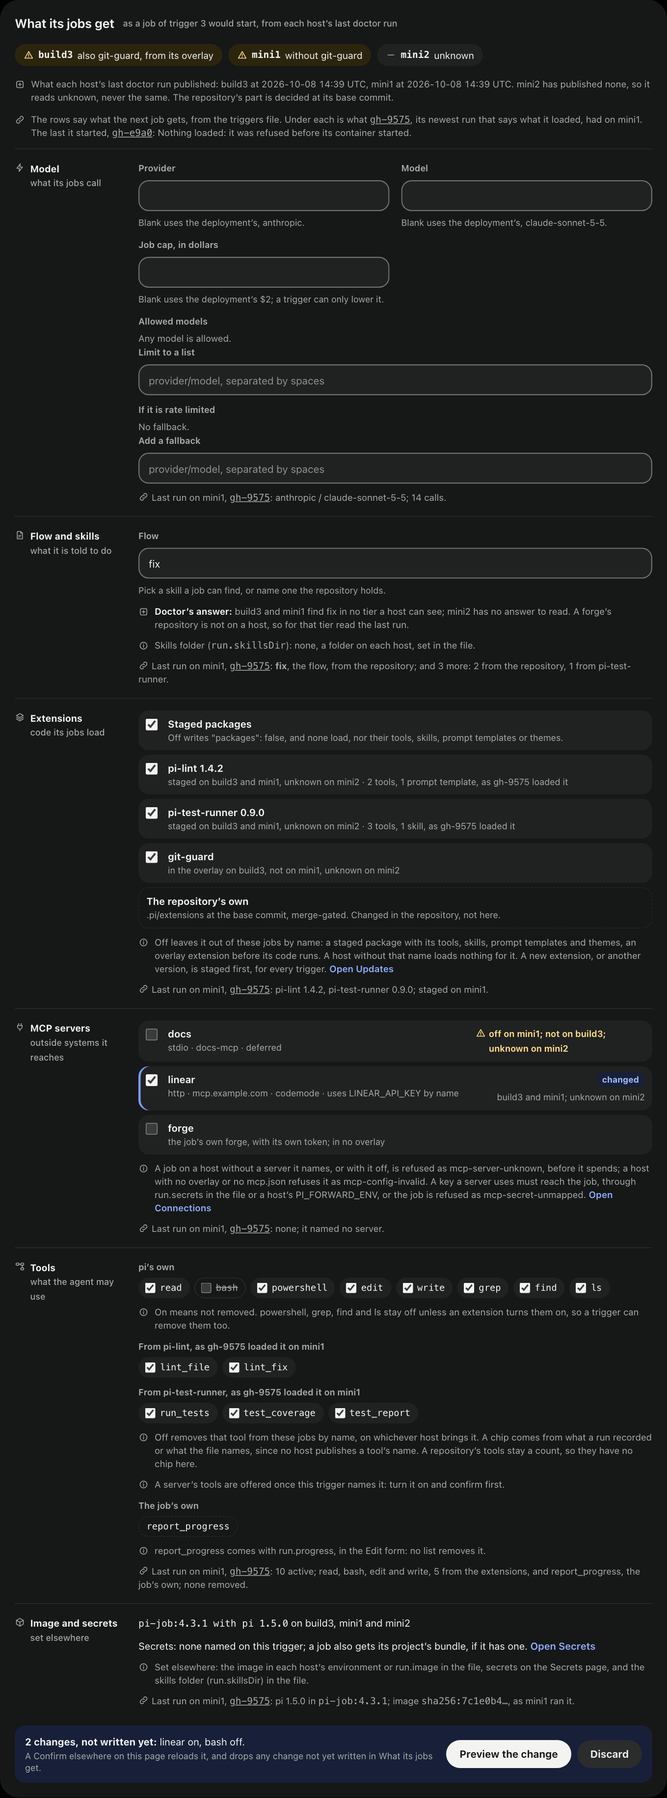
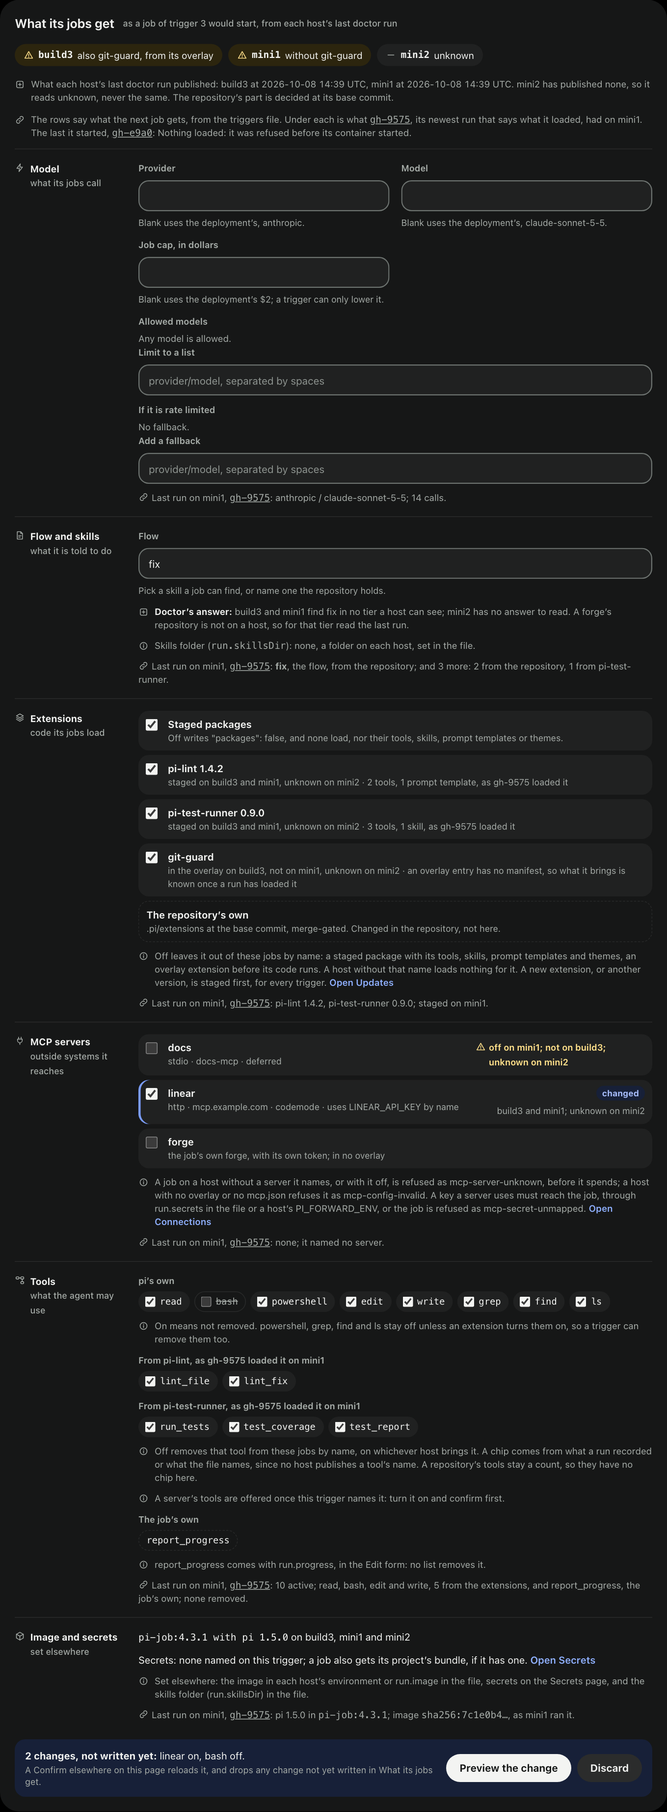
fix(console): the review's findings on the fresh sandbox rows and extension rows (#847)
- An extension row quotes the NEWEST RUN THAT LOADED IT, of its kind
  and version. It used to quote the newest run alone, so a row switched
  off said "known once a run has loaded it" one run later.
  - An overlay entry and a package of one name are never each other's
    counts (sources carry a `kind`).
  - Every entry of a stem is looked for.
  - One that brought nothing countable (a hook alone) says "no tool,
    skill or prompt template, as X loaded it".
  - Nothing is claimed while the run history could not be read.
- The Flow row uses forge words. A sandbox's trigger is a forge's,
  whose repository is on no host, so doctor never answered its
  repository tier. A tier found is named with the trigger page's
  caveat that the repository comes first, and one found nowhere is
  unknown, never absent. The not-found golden showed a state a sandbox
  cannot be in, and is gone.
- The row says "a job of trigger N on this host", since "here" also
  meant the shell.
- An old publication reads unknown for Flow and MCP, as the trigger
  page reads it.
- A package-tier answer under "packages": false is no answer, on both
  pages.
- The MCP row names no refusal reason: a host with no mcp.json
  publishes the same empty list, and its jobs are refused as
  mcp-config-invalid.
- A disarmed one-shot's flow and servers come from its entry in the
  file, as the worker prepares it.
- Tests:
  - sandbox-data hands on flow and mcp;
[…]

diff --git a/design/system/components/LoadedStates/preview.html b/design/system/components/LoadedStates/preview.html
@@ -301,7 +301,7 @@ details.c2-more > div { padding: 0 14px 14px; display: grid; gap: var(--space-3)
   <dl class="facts facts--1"><div class="fact"><dt>Image</dt><dd>pi-job:4.3.1</dd></div><div class="fact"><dt>/workspace</dt><dd>Its retained clone</dd></div><div class="fact"><dt>/job</dt><dd>Read only, with the retained job inputs</dd></div><div class="fact"><dt><span class="ld-new">pi and what it loads</span></dt><dd><span class="ld-new">pi 1.5.0 in the image. No overlay is mounted, so pi started here loads only the workspace’s own .pi/. <a class="link code" href="#">gh-9575</a> itself also loaded pi-lint 1.4.2 and pi-test-runner 0.9.0.</span></dd></div><div class="fact"><dt>Processes</dt><dd>None until you start them</dd></div><div class="fact"><dt>Credentials</dt><dd>None, on purpose</dd></div><div class="fact"><dt>Network</dt><dd>The host's current job egress policy</dd></div></dl><p class="ld-foot"><svg class="ic ic--sm" aria-hidden="true"><use href="#i-info"/></svg><span>Nothing loads until you start pi in the shell.</span></p>
 </section><section class="card" id="p-loaded-sandbox-fresh" data-panel>
   <div class="card__head"><h2>What opens</h2><span class="card__sub">Sandboxes, a fresh one</span></div>
-  <dl class="facts facts--1"><div class="fact"><dt><span class="ld-new">On mini1</span></dt><dd><span class="ld-new">pi 1.5.0 in the image. No overlay is mounted, so pi started here loads only the workspace’s own .pi/. A job of trigger 3 on this host would load pi-lint 1.4.2 and pi-test-runner 0.9.0, from its last doctor run at 2026-10-08 14:39 UTC.</span></dd></div><div class="fact"><dt><span class="ld-new">Flow</span></dt><dd><span class="ld-new">A job here would find fix from the repository.</span></dd></div><div class="fact"><dt><span class="ld-new">MCP servers</span></dt><dd><span class="ld-new">linear on this host; docs not on this host, so a job here is refused as mcp-server-unknown.</span></dd></div><div class="fact"><dt><span class="ld-new">On mini2</span></dt><dd><span class="ld-new">pi 1.5.0 in the image. No overlay is mounted, so pi started here loads only the workspace’s own .pi/. What a job of trigger 3 would load on this host is unknown: it has published no doctor run.</span></dd></div></dl><p class="ld-foot"><svg class="ic ic--sm" aria-hidden="true"><use href="#i-info"/></svg><span>A fresh sandbox has no run to quote, so it says what a job would load there, from the host’s last doctor run, or unknown. The repository’s part is decided at its base commit.</span></p>
+  <dl class="facts facts--1"><div class="fact"><dt><span class="ld-new">On mini1</span></dt><dd><span class="ld-new">pi 1.5.0 in the image. No overlay is mounted, so pi started here loads only the workspace’s own .pi/. A job of trigger 3 on this host would load pi-lint 1.4.2 and pi-test-runner 0.9.0, from its last doctor run at 2026-10-08 14:39 UTC.</span></dd></div><div class="fact"><dt><span class="ld-new">Flow</span></dt><dd><span class="ld-new">A job of trigger 3 on this host would find fix from the overlay, unless the repository holds it at its base commit, which comes first.</span></dd></div><div class="fact"><dt><span class="ld-new">MCP servers</span></dt><dd><span class="ld-new">linear on this host; docs not on this host, so a job there is refused before it spends.</span></dd></div><div class="fact"><dt><span class="ld-new">On mini2</span></dt><dd><span class="ld-new">pi 1.5.0 in the image. No overlay is mounted, so pi started here loads only the workspace’s own .pi/. What a job of trigger 3 would load on this host is unknown: it has published no doctor run.</span></dd></div></dl><p class="ld-foot"><svg class="ic ic--sm" aria-hidden="true"><use href="#i-info"/></svg><span>A fresh sandbox has no run to quote, so it says what a job would load there, from the host’s last doctor run, or unknown. The repository’s part is decided at its base commit.</span></p>
 </section></div><div class="ld-pair"><section class="card" id="p-loaded-trigger" data-panel>
   <div class="card__head"><h2>MCP servers</h2><span class="card__sub">trigger 7, under a row of What its jobs get</span></div>
   <dl class="facts facts--1"><div class="fact"><dt><span class="code">run.mcp</span></dt><dd>linear, as the file says now</dd></div><div class="fact"><dt><span class="ld-new">Last run</span></dt><dd><span class="ld-new">Last run on mini1, <a class="link code" href="#">gh-2f6a</a>: linear connected, with 12 tools.</span></dd></div></dl><p class="ld-foot"><svg class="ic ic--sm" aria-hidden="true"><use href="#i-info"/></svg><span>Each row of What its jobs get has this line: what the file says the next job gets, and under it what its last run had.</span></p>

diff --git a/design/system/components/TriggerEnvironment/preview.html b/design/system/components/TriggerEnvironment/preview.html
@@ -217,7 +217,7 @@ details.c2-more > div { padding: 0 14px 14px; display: grid; gap: var(--space-3)
   <label class="te-item"><input type="checkbox" checked aria-label="pi-lint 1.4.2"><span><b>pi-lint 1.4.2</b><small>staged on build3 and mini1, unknown on mini2 · 2 tools, 1 prompt template, as gh-9575 loaded it</small></span><span class="te-tag"></span></label>
   <label class="te-item"><input type="checkbox" checked aria-label="pi-test-runner 0.9.0"><span><b>pi-test-runner 0.9.0</b><small>staged on build3 and mini1, unknown on mini2 · 3 tools, 1 skill, as gh-9575 loaded it</small></span><span class="te-tag"></span></label>
   <label class="te-item"><input type="checkbox" checked aria-label="git-guard"><span><b>git-guard</b><small>in the overlay on build3, not on mini1, unknown on mini2 · an overlay entry has no manifest, so what it brings is known once a run has loaded it</small></span><span class="te-tag"></span></label>
-  <label class="te-item"><input type="checkbox" aria-label="pi-format 0.3.0"><span><b>pi-format 0.3.0</b><small>staged on build3 · what it brings is known once a run has loaded it</small></span><span class="te-tag"></span></label>
+  <label class="te-item"><input type="checkbox" aria-label="pi-format 0.3.0"><span><b>pi-format 0.3.0</b><small>staged on build3, not on mini1, unknown on mini2 · what it brings is known once a run has loaded it</small></span><span class="te-tag"></span></label>
   <label class="te-item te-item--locked"><svg class="ic ic--sm" aria-hidden="true"><use href="#i-key"/></svg><span><b>The repository’s own</b><small>.pi/extensions at the base commit, merge-gated. Changed in the repository, not here.</small></span><span class="te-tag"></span></label>
 </div>
 <p class="te-note"><svg class="ic ic--sm" aria-hidden="true"><use href="#i-info"/></svg><span>Off leaves it out of these jobs by name: a staged package with its tools, skills, prompt templates and themes, an overlay extension before its code runs. A host without that name loads nothing for it. A new extension, or another version, is staged first, for every trigger. <a class="link" href="#">Open Updates</a></span></p><p class="te-last"><svg class="ic ic--sm" aria-hidden="true"><use href="#i-chain"/></svg>Last run on mini1, gh-9575: pi-lint 1.4.2, pi-test-runner 0.9.0; staged on mini1.</p></div></div><div class="te-sec"><p class="te-sec__k"><svg class="ic ic--sm" aria-hidden="true"><use href="#i-plug"/></svg><span>MCP servers<small>outside systems it reaches</small></span></p><div class="te-sec__v"><div class="te-items">

diff --git a/design/tools/gen_loaded.py b/design/tools/gen_loaded.py
@@ -270,8 +270,8 @@ def states_page():
     fresh = card("What opens", facts([
         (f'<span class="ld-new">On mini1</span>', f'<span class="ld-new">{NO_OVERLAY} A job of trigger 3 on this host would load pi-lint 1.4.2 and pi-test-runner 0.9.0, from its last doctor run at 2026-10-08 14:39 UTC.</span>'),
         # Issue #847: where the host published a doctor run, the flow and the MCP servers the trigger names, in the trigger page's words.
-        (f'<span class="ld-new">Flow</span>', f'<span class="ld-new">A job here would find fix from the repository.</span>'),
-        (f'<span class="ld-new">MCP servers</span>', f'<span class="ld-new">linear on this host; docs not on this host, so a job here is refused as mcp-server-unknown.</span>'),
+        (f'<span class="ld-new">Flow</span>', f'<span class="ld-new">A job of trigger 3 on this host would find fix from the overlay, unless the repository holds it at its base commit, which comes first.</span>'),
+        (f'<span class="ld-new">MCP servers</span>', f'<span class="ld-new">linear on this host; docs not on this host, so a job there is refused before it spends.</span>'),
         (f'<span class="ld-new">On mini2</span>', f'<span class="ld-new">{NO_OVERLAY} What a job of trigger 3 would load on this host is unknown: it has published no doctor run.</span>'),
     ], 1) + f'<p class="ld-foot">{ic("info", "ic ic--sm")}<span>A fresh sandbox has no run to quote, so it says what a job would load there, from the host’s last doctor run, or unknown. The repository’s part is decided at its base commit.</span></p>',
         sub="Sandboxes, a fresh one", id_="p-loaded-sandbox-fresh")

diff --git a/design/tools/gen_trigger_env.py b/design/tools/gen_trigger_env.py
@@ -174,7 +174,7 @@ def gets_card():
   {item(True, "pi-lint 1.4.2", "staged on build3 and mini1, unknown on mini2 · 2 tools, 1 prompt template, as gh-9575 loaded it")}
   {item(True, "pi-test-runner 0.9.0", "staged on build3 and mini1, unknown on mini2 · 3 tools, 1 skill, as gh-9575 loaded it")}
   {item(True, "git-guard", "in the overlay on build3, not on mini1, unknown on mini2 · an overlay entry has no manifest, so what it brings is known once a run has loaded it")}
-  {item(False, "pi-format 0.3.0", "staged on build3 · what it brings is known once a run has loaded it")}
+  {item(False, "pi-format 0.3.0", "staged on build3, not on mini1, unknown on mini2 · what it brings is known once a run has loaded it")}
   {item(True, "The repository’s own", ".pi/extensions at the base commit, merge-gated. Changed in the repository, not here.", locked=True)}
 </div>
 <p class="te-note">{ic("info", "ic ic--sm")}<span>Off leaves it out of these jobs by name: a staged package with its tools, skills, prompt templates and themes, an overlay extension before its code runs. A host without that name loads nothing for it. A new extension, or another version, is staged first, for every trigger. <a class="link" href="#">Open Updates</a></span></p>""",

diff --git a/specs/requirements.md b/specs/requirements.md
@@ -1663,13 +1663,17 @@ writes retain their existing interactive confirmation. This adds no unattended p
   a last doctor run that could not read a part this job loads from, and it never reads as the same or as none. Since
   issue #847, where the host published a doctor run, two rows follow it (`sandboxFreshRows`): **Flow**, where a job of
   the trigger would find its flow on that host, in the trigger page's own words (`flowAnswer`, `lacksFlow`,
-  `FLOW_TIER_WORDS`): found with its tier, not found ("it is not at the repository's HEAD, nor in any other tier this
-  trigger loads from"), or unknown where doctor has no answer for that flow (it ran before an edit, or the row was cut
-  to fit) or found it in no tier a host can see; and, when the trigger names any, **MCP servers**: each server `run.mcp`
-  names against the host's overlay servers, on, switched off or not there (both refused as `mcp-server-unknown`), or
-  unknown where the list could not be read or was cut, and `forge` as the job's own. Tools stay out, since no host
-  publishes a tool's name. An unread MCP part no longer makes the first row unknown for a trigger that names no server.
-  A host that published nothing keeps the first row alone. pi's
+  `FLOW_TIER_WORDS`): a sandbox's trigger is a forge's, whose repository is on no host, so a tier doctor found is named
+  with the trigger page's caveat that the repository comes first at its base commit, and one found in no tier a host
+  can see is unknown, never absent, as is a flow doctor has no answer for (it ran before an edit, or the row was cut to
+  fit); and, when the trigger names any, **MCP servers**: each server `run.mcp`
+  names against the host's overlay servers, on, switched off or not there (a job is then refused before it spends, the
+  reason not named, since a host with no `mcp.json` publishes the same empty list), or unknown where the list could not
+  be read or was cut, and `forge` as the job's own. Tools stay out, since no host publishes a tool's name. An unread MCP
+  part no longer makes the first row unknown for a trigger that names no server. A package-tier answer under
+  `"packages": false` is no answer, as is one for a package the trigger leaves out, and an old publication reads unknown
+  for both rows, as the trigger page reads it. A host that published nothing keeps the first row alone. A disarmed
+  one-shot's flow and servers are read from its entry in the file, as the worker prepares it. pi's
   version is the record's, or the host's beat's (`host:h:<name>`) where the sandbox's image is the one that host booted on, so
   a host that published nothing still has one. A kept older image and a trigger's own `run.image` hold their own pi, so otherwise
   the line says it cannot name the version (`hostPiFor`). A read of the record that failed says it could not be read. **Who sees what**: an operator and a viewer read the same words on the run page, the Runs list and a project's
@@ -1678,7 +1682,7 @@ writes retain their existing interactive confirmation. This adds no unattended p
   operators only (`REQ-SANDBOX-FROM-THE-CONSOLE`, UNCHANGED, checked: it adds no control, command or shell list).
   `/api/run` carries the field for both roles (`INT-CONSOLE-STATE-API`). No model or agent reads the list, and each reads
   `outcomeNote`'s closed sentence as `note`, and an agent's page draws no Loaded card or project card over a copy with no field.
-  Goldens: `sandbox-loaded-run.operator`, `sandbox-loaded-fresh.operator`, `sandbox-loaded-flow-found.operator`, `sandbox-loaded-flow-absent.operator`, `sandbox-loaded-flow-unknown.operator`, `sandbox-loaded-mcp-lacks.operator`, `sandbox-loaded-unknown.operator`, `sandbox-loaded-long-names.operator`. Tests:
+  Goldens: `sandbox-loaded-run.operator`, `sandbox-loaded-fresh.operator`, `sandbox-loaded-flow-found.operator`, `sandbox-loaded-flow-unknown.operator`, `sandbox-loaded-mcp-lacks.operator`, `sandbox-loaded-unknown.operator`, `sandbox-loaded-long-names.operator`. Tests:
   `admin/test/loaded-words.test.mjs`, `admin/test/console-sandboxes.test.mjs`, `admin/test/sandbox-data.test.mjs`.
 
 - **AMENDED 2026-11-02 (#792, #793)**: Run Workspace and the separate gateway workbench/observer surface follow
@@ -2663,9 +2667,11 @@ writes retain their existing interactive confirmation. This adds no unattended p
       hidden. The digest covers the entry's prompt and secret references, so it reaches an operator's form alone.
     - **What is switched and what is shown (AMENDED 2026-11-04).** Staged packages have one switch, all or nothing, and each staged package and
       overlay extension a host publishes has its own, by name (`run.excludeExtensions`), with where it is, and what the newest run that loaded it
-      brought (its tools, skills and prompt templates, "as gh-9575 loaded it"), switched off too since issue #847, since that row is where a person
-      decides to turn it back on; one no recorded run has loaded says "what it brings is known once a run has loaded it", and an overlay entry says it
-      has no manifest, so only a run can say. Hosts publish no counts per package (`DES-OPERATOR-CONSOLE`). A name the file holds that no host shows keeps
+      brought (its tools, skills and prompt templates, "as gh-9575 loaded it", or "no tool, skill or prompt template" for one that brought nothing
+      countable), switched off too since issue #847, since that row is where a person decides to turn it back on: the newest run that loaded that
+      package at that version, or that overlay entry, never a package's counts for an overlay entry of its name; one no recorded run has loaded
+      says "what it brings is known once a run has loaded it", an overlay entry that it has no manifest, and neither is said while the run
+      history could not be read. Hosts publish no counts per package (`DES-OPERATOR-CONSOLE`). A name the file holds that no host shows keeps
       its row, so it can be turned back on, and under `"packages": false` a package's switch is moot and the row says so. Two names in the file that mean one entry (`git-guard` and `git-guard.ts`, which the loader takes) are a row each: each says where the entry is, as the worker's `extensionsNotHere` reads it, and that the file also names the other. A tool an extension adds is a chip,
       named from a run's record by its id and host (`run.excludeExtensionTools`), since no host publishes a tool's name, and a name the file holds that no
       chip offers stays listed. A repository's extensions and tools stay counts, with no control. pi's own tools and a named server's are chips, on meaning not
@@ -8663,7 +8669,7 @@ instead of drifting.
 
 | Date | Change |
 |---|---|
-| 2026-11-12 (#847) | **`REQ-OPERATOR-CONSOLE-SCREENS` AMENDED**: a fresh sandbox's What opens gains, where the host published a doctor run, a Flow row (where a job would find the trigger's flow, in the trigger page's words, or unknown) and, for a trigger that names any, an MCP servers row (on, switched off, not there, unknown; `forge` the job's own); an unread MCP part no longer makes the first row unknown for a trigger that names none; four goldens added (`sandbox-loaded-flow-found`, `-flow-absent`, `-flow-unknown`, `-mcp-lacks`). (g1)'s extension row quotes what the newest run that loaded it brought also when it is switched off, and one no run has loaded says that is not known yet; an overlay entry says it has no manifest. UNCHANGED, checked: `INT-DOCTOR-RESULTS-KEY` (nothing new is published), `REQ-SANDBOX-FROM-THE-CONSOLE` (no control is added), the README's What a job gets (no sentence it holds moved). |
+| 2026-11-12 (#847) | **`REQ-OPERATOR-CONSOLE-SCREENS` AMENDED**: a fresh sandbox's What opens gains, where the host published a doctor run, a Flow row (where a job would find the trigger's flow, in the trigger page's words, or unknown) and, for a trigger that names any, an MCP servers row (on, switched off, not there, unknown; `forge` the job's own); an unread MCP part no longer makes the first row unknown for a trigger that names none; three goldens added (`sandbox-loaded-flow-found`, `-flow-unknown`, `-mcp-lacks`). (g1)'s extension row quotes what the newest run that loaded it brought also when it is switched off, and one no run has loaded says that is not known yet; an overlay entry says it has no manifest. UNCHANGED, checked: `INT-DOCTOR-RESULTS-KEY` (nothing new is published), `REQ-SANDBOX-FROM-THE-CONSOLE` (no control is added), the README's What a job gets (no sentence it holds moved). |
 | 2026-11-11 (#849, follow-ups) | **`REQ-ADMIN-VIA-PI-EXTENSION` AMENDED**, the console subcommand and its acceptance: the default link is made only where the address in use is the one the tokens file's deployment folder names (its `.env`'s `PI_CONSOLE_LISTEN`, or the default), so a code is never minted into one deployment's drop for another's console (said as a warning, with the advice its source calls for); `--link` still mints, under the same warning; a tokens file pi's own environment names is checked against no folder. Every other entry UNCHANGED, checked. |
 | 2026-11-11 (#849, part 6) | Fewer commands. **`REQ-CONSOLE-SECURITY` AMENDED**, the Statement's "a new session id each time" and (i): a one-time link for the person a browser's live session already belongs to keeps that session (audited, the code spent), while it has time left. **`REQ-OPERATOR-CONSOLE-SCREENS` (a10) AMENDED**: a first-run step may carry `host`. **`REQ-ADMIN-VIA-PI-EXTENSION` AMENDED**: `/dispatch console` makes its sign-in link by default where the choice is plain (pi's terminal UI, a running console, one operator token, a guarded drop), says the address as before otherwise, and takes `--no-link`; its acceptance gains that clause. **`REQ-OPERATOR-CONSOLE-SCREENS` AMENDED**: new (g10), a button where the console can do a step (the overview's granted steps, doctor from Set up on the console's own host, the run page's reason fixes). `REQ-BROWSER-FIRST-RUN-SETUP`'s commands where no button is offered and `INT-REASON-CATALOG`'s words: UNCHANGED, checked. |
 | 2026-11-08 (#849, part 5) | The Remember experience. **`REQ-OPERATOR-CONSOLE-SCREENS` AMENDED**: new (g9), the Remembered browsers screen, the sign-in form's Remember box, the offer after a fresh sign-in and the remembered mark in the top bar. **`REQ-OPERATOR-CONSOLE-ACTIONS` AMENDED**, (p): `device-remove` and `sessions-end-all` are destructive. **`REQ-CONSOLE-SECURITY` AMENDED**, (i): a tombstone is also written by Sign everyone out (`endAll`), whose `all` moves no `generation`; both actions ride the existing write guards, and signing everyone out writes no tokens file. |

diff --git a/README.md b/README.md
@@ -407,8 +407,8 @@ updates by itself ([updates](docs/console.md#updates)).
 A schedule also gets a button that fires it now ([triggers](docs/triggers.md)).
 
 <picture>
-  <source media="(prefers-color-scheme: dark)" srcset="docs/images/console/console-trigger-dark.png?v=2026-11-05-800e">
-  <img src="docs/images/console/console-trigger.png?v=2026-11-04-800e" alt="What its jobs get, on one trigger's page, with two changes not written yet: a pill per machine saying what differs or that it is unknown, then the model and its job cap, the flow, a switch for the staged packages and one for each of your extensions, the outside systems with linear switched on, pi's own tools with bash off and a switch for each tool the newest run that says what it loaded lists, the image and secrets, what the last run had under each, and a bar with Preview the change and Discard">
+  <source media="(prefers-color-scheme: dark)" srcset="docs/images/console/console-trigger-dark.png?v=2026-11-12-847">
+  <img src="docs/images/console/console-trigger.png?v=2026-11-12-847" alt="What its jobs get, on one trigger's page, with two changes not written yet: a pill per machine saying what differs or that it is unknown, then the model and its job cap, the flow, a switch for the staged packages and one for each of your extensions, the outside systems with linear switched on, pi's own tools with bash off and a switch for each tool the newest run that says what it loaded lists, the image and secrets, what the last run had under each, and a bar with Preview the change and Discard">
 </picture>
 
 **Your phone:** every page fits, for answering a question from wherever you are. The console listens only on its own machine
@@ -496,8 +496,8 @@ machine the console runs on, and says how to undo it. One
 **Confirm** saves it, the console records who did, and **Undo** puts it back, or says what to edit by hand where it cannot.
 
 <picture>
-  <source media="(prefers-color-scheme: dark)" srcset="docs/images/console/console-trigger-change-dark.png?v=2026-11-05">
-  <img src="docs/images/console/console-trigger-change.png?v=2026-11-04-800d" alt="The preview of that change, in words: linear on and where its jobs would now connect, bash off, when the change takes effect, a waiting job that would now be refused, that a job on a machine without linear is refused and which machines have it, who it is recorded under, the lines of the file as they would change, the way to undo it, and one Confirm button">
+  <source media="(prefers-color-scheme: dark)" srcset="docs/images/console/console-trigger-change-dark.png?v=2026-11-12-847">
+  <img src="docs/images/console/console-trigger-change.png?v=2026-11-12-847" alt="The preview of that change, in words: linear on and where its jobs would now connect, bash off, when the change takes effect, a waiting job that would now be refused, that a job on a machine without linear is refused and which machines have it, who it is recorded under, the lines of the file as they would change, the way to undo it, and one Confirm button">
 </picture>
 
 **Some changes that would only fail later are refused before they cost you anything.** A job cap can only lower the limit you set for all jobs. If a trigger's model is too

diff --git a/docs/console.md b/docs/console.md
@@ -1959,7 +1959,7 @@ would load on that host, from the host's last doctor run and with its time. A ho
 last doctor run could not read a part that job loads from, reads as unknown, never as nothing. Where the host published a
 doctor run, a Flow row says whether a job there would find the trigger's flow and from where, or that this is unknown, in
 the words the trigger page uses, and an MCP servers row says which servers the trigger names that host has on, has
-switched off or lacks (a job is refused for either), or cannot say. It names no tool, since no host publishes one. The repository's part is
+switched off or lacks (a job is refused for either, before it spends), or cannot say. An old publication reads as unknown for both rows. It names no tool, since no host publishes one. The repository's part is
 decided at its base commit ([What a run loaded](#what-a-run-loaded), and
 [what the host's publication says](global-pi-overlay.md#what-a-run-loaded-and-where-to-read-it)).
 
